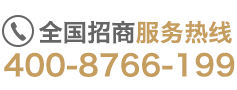
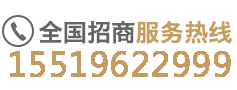
liujie

Changed region(s): [[0.0, 0.5556, 1.0, 0.8667]]

diff --git a/Apps/Home/View/Common/layouts/footer.html b/Apps/Home/View/Common/layouts/footer.html
@@ -27,9 +27,9 @@
         <span>地址：贵州省遵义市仁怀市茅台镇国酒社区茅苑路</span>
       </p>
       <p>
-        <span>电话：0769-89836999</span>
-        <span style="margin-left: 10px;">传真：0769-89836899</span>
-        <span style="margin-left: 10px;">全国免费招商热线：400-8766-199</span></p>
+        <span>电话：0851---22222180</span>
+        <span style="margin-left: 10px;">传真：0851---22222180</span>
+        <span style="margin-left: 10px;">全国免费招商热线：15519622999</span></p>
     </div>
     <div class="col-md-3">&nbsp;</div>
   </div>
